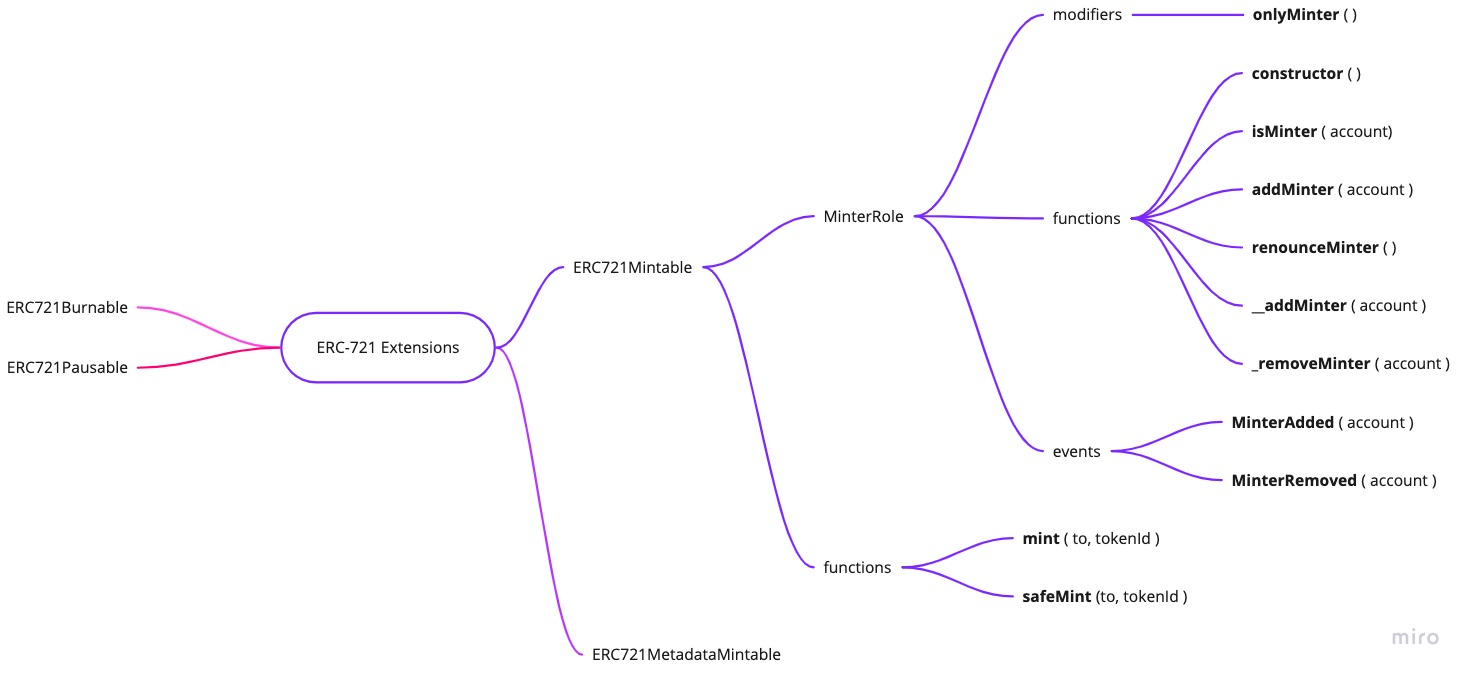
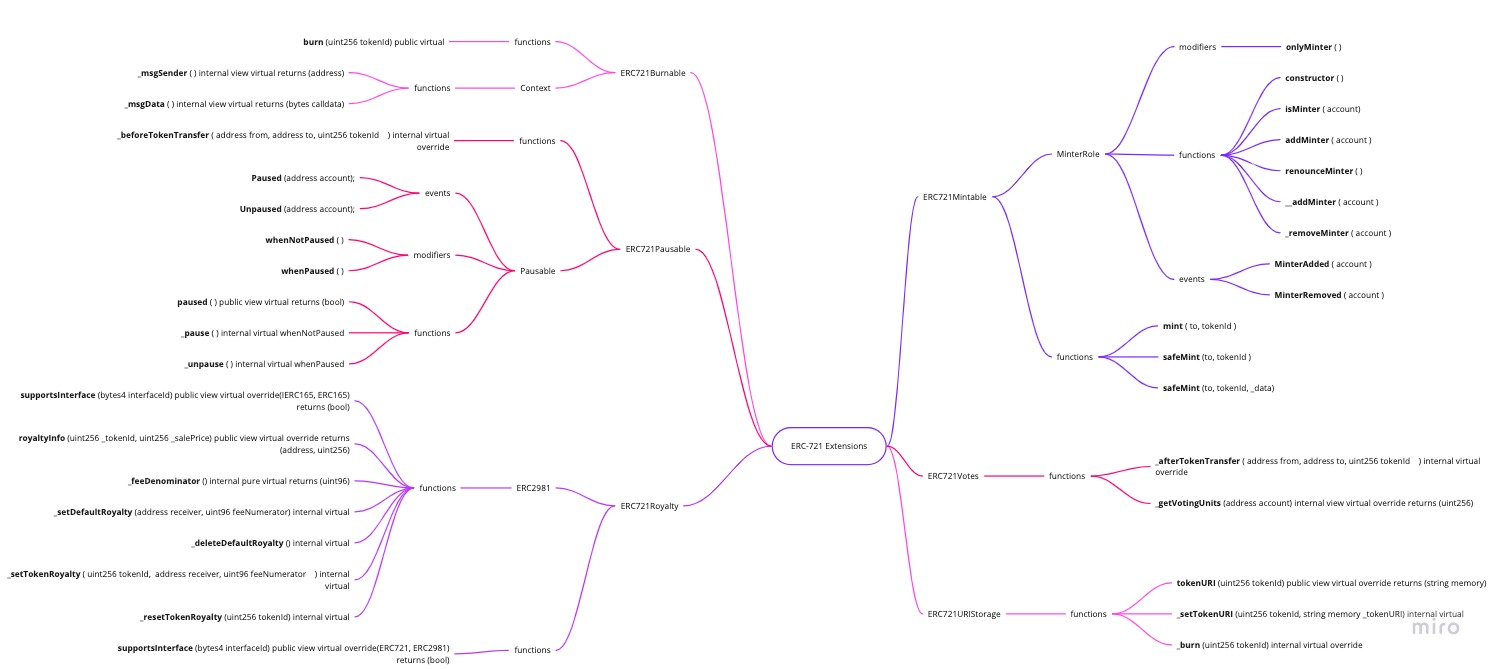
add info to ERC721 standard

diff --git a/docs/roadmap.md b/docs/roadmap.md
@@ -50,7 +50,7 @@ Follow our journey from inception to launch. Please note that the team reserves 
 ✅ &nbsp; Whitepaper v2.0<br/>
 ✅&nbsp;  XPNET Staking<br/>
 ✅ &nbsp; NFT Multichain Bridge going live<br/>
-✅ &nbsp; Mainnet integration to Ethereum, BSC, Elrond, Avalanche, Tron, Polygon, Fantom<br/>
+✅ &nbsp; Mainnet integration to Ethereum, BSC, Elrond, Avalanche, Tron, Polygon<br/>
 ✅ &nbsp; Introducing XPNET-JS API for dApp connections<br/>
 ✅ &nbsp; Wallet integrations - Metamask & Elrond wallet, TronLink<br/>
 :::
@@ -83,12 +83,12 @@ Follow our journey from inception to launch. Please note that the team reserves 
     &nbsp;&nbsp;&nbsp;&nbsp;&nbsp;&nbsp;✅ &nbsp;WalletConnect<br/>
 
 ✅ &nbsp; Received Grants From: <br/>
-    &nbsp;&nbsp;&nbsp;&nbsp;&nbsp;&nbsp;✅ &nbsp;Velas<br/>
-    &nbsp;&nbsp;&nbsp;&nbsp;&nbsp;&nbsp;✅ &nbsp;Harmony<br/>
-    &nbsp;&nbsp;&nbsp;&nbsp;&nbsp;&nbsp;✅ &nbsp;IoteX<br/>
-    &nbsp;&nbsp;&nbsp;&nbsp;&nbsp;&nbsp;✅ &nbsp;Secret Network<br/>
-    &nbsp;&nbsp;&nbsp;&nbsp;&nbsp;&nbsp;✅ &nbsp;VeChain<br/>
-    &nbsp;&nbsp;&nbsp;&nbsp;&nbsp;&nbsp;✅ &nbsp;GateChain<br/>
+    &nbsp;&nbsp;&nbsp;&nbsp;&nbsp;&nbsp;✅ &nbsp;Velas (EVM)<br/>
+    &nbsp;&nbsp;&nbsp;&nbsp;&nbsp;&nbsp;✅ &nbsp;Harmony (EVM)<br/>
+    &nbsp;&nbsp;&nbsp;&nbsp;&nbsp;&nbsp;✅ &nbsp;IoteX (EVM)<br/>
+    &nbsp;&nbsp;&nbsp;&nbsp;&nbsp;&nbsp;✅ &nbsp;Secret Network (Non-EVM)<br/>
+    &nbsp;&nbsp;&nbsp;&nbsp;&nbsp;&nbsp;✅ &nbsp;VeChain (Semi-EVM)<br/>
+    &nbsp;&nbsp;&nbsp;&nbsp;&nbsp;&nbsp;✅ &nbsp;GateChain (EVM)<br/>
     &nbsp;&nbsp;&nbsp;&nbsp;&nbsp;&nbsp;✅ &nbsp;Aurora (NEAR Layer-2)<br/>
     &nbsp;&nbsp;&nbsp;&nbsp;&nbsp;&nbsp;✅ &nbsp;Godwoken (Nervos Layer-2)<br/>
 
@@ -97,17 +97,19 @@ Follow our journey from inception to launch. Please note that the team reserves 
 :::caution Work In Progress
 
 ✅ &nbsp; Received Grants From: <br/>
-    &nbsp;&nbsp;&nbsp;&nbsp;&nbsp;&nbsp;✅ &nbsp;Internet Computer<br/>
-    &nbsp;&nbsp;&nbsp;&nbsp;&nbsp;&nbsp;✅ &nbsp;The Open Network<br/>
+    &nbsp;&nbsp;&nbsp;&nbsp;&nbsp;&nbsp;✅ &nbsp;Internet Computer (Non-EVM)<br/>
+    &nbsp;&nbsp;&nbsp;&nbsp;&nbsp;&nbsp;✅ &nbsp;The Open Network  (Non-EVM)<br/>
+    &nbsp;&nbsp;&nbsp;&nbsp;&nbsp;&nbsp;✅ &nbsp;NEAR (Non-EVM)<br/>
+    &nbsp;&nbsp;&nbsp;&nbsp;&nbsp;&nbsp;✅ &nbsp;Hedera (EVM)<br/>
 
 ⬜ &nbsp; Mainnet integration to:<br/>
     &nbsp;&nbsp;&nbsp;&nbsp;&nbsp;&nbsp;✅ &nbsp; Aurora<br/>
+    &nbsp;&nbsp;&nbsp;&nbsp;&nbsp;&nbsp;✅ &nbsp; Fantom<br/>
     &nbsp;&nbsp;&nbsp;&nbsp;&nbsp;&nbsp;⬜ &nbsp; Harmony<br/>
     &nbsp;&nbsp;&nbsp;&nbsp;&nbsp;&nbsp;⬜ &nbsp; GateChain<br/>
     &nbsp;&nbsp;&nbsp;&nbsp;&nbsp;&nbsp;⬜ &nbsp; VeChain<br/>
     &nbsp;&nbsp;&nbsp;&nbsp;&nbsp;&nbsp;⬜ &nbsp; Godwoken (Nervos Layer-2)<br/>
     &nbsp;&nbsp;&nbsp;&nbsp;&nbsp;&nbsp;⬜ &nbsp; Secret Network<br/>
-    &nbsp;&nbsp;&nbsp;&nbsp;&nbsp;&nbsp;⬜ &nbsp; BTT <br/>
     &nbsp;&nbsp;&nbsp;&nbsp;&nbsp;&nbsp;⬜ &nbsp; Solana<br/>
     &nbsp;&nbsp;&nbsp;&nbsp;&nbsp;&nbsp;⬜ &nbsp; The Open Network <br/>
 

diff --git a/docs/nft_standards/ERC721.md b/docs/nft_standards/ERC721.md
@@ -27,11 +27,19 @@ The core standard consists of:
 Extensions are adding frequently used functionality in a commonized way.
 
 ERC-721 Extensions comprise:
-+ ERC721Mintable
++ **ERC721Mintable**
   + relies on the MinterRole extension
   + has its native functions and events
-+ ERC721MetadataMintable
-+ ERC721Burnable
-+ ERC721Pausable
++ **ERC721Burnable** - allows burning NFTs
+  + relies on Context
+  + has a burn function
++ **ERC721Pausable**
+  + relies on Pausable contract
+  + implements a _beforeTokenTransfer function
++ **ERC721Royalty**
+  + relies on ERC2981 contract
+  + implements the supportInterface function
++ **ERC721URIStorage**
+  + implements the URI related functionality
 
 > Work-in-Progress...
